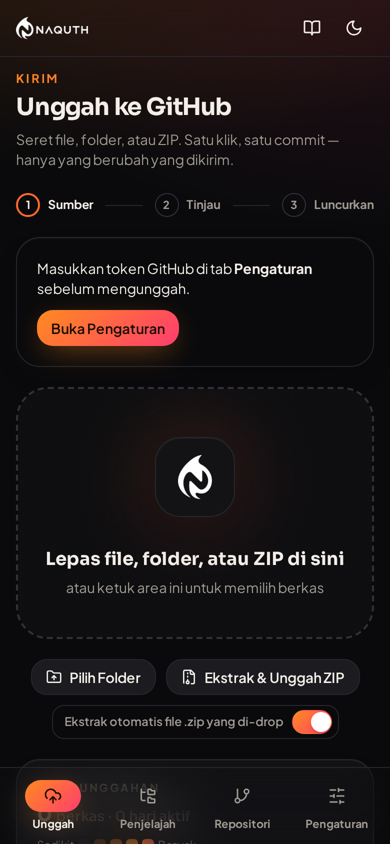
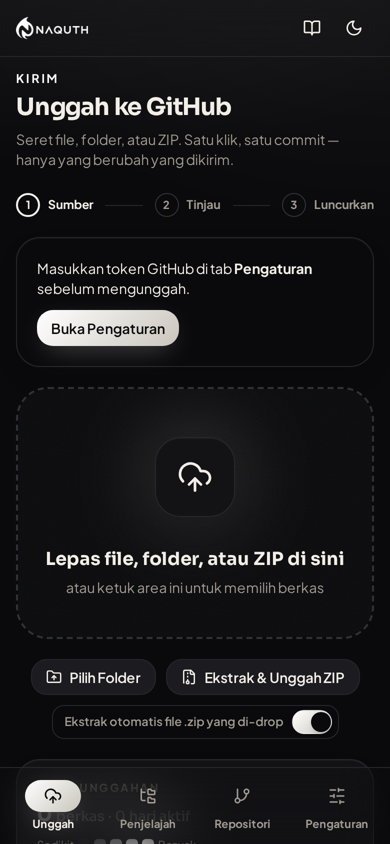
Upload 70 files

diff --git a/components/dashboard/uploader.tsx b/components/dashboard/uploader.tsx
@@ -3,11 +3,10 @@
 import { useState, useRef, useCallback, useMemo } from "react"
 import { useDropzone } from "react-dropzone"
 import { toast } from "sonner"
-import { FolderUp, FileArchive, Eye, Rocket, ExternalLink, CheckCircle2, AlertTriangle, Check, GitBranch, ChevronDown, Layers, Eraser, Plus, Minus, Equal, Pencil } from "lucide-react"
+import { CloudUpload, FolderUp, FileArchive, Eye, Rocket, ExternalLink, CheckCircle2, AlertTriangle, Check, GitBranch, ChevronDown, Layers, Eraser, Plus, Minus, Equal, Pencil } from "lucide-react"
 import { useGithub } from "@/lib/github-context"
 import { useShell } from "@/components/shell/shell-context"
 import { ViewHeader, Eyebrow } from "@/components/shell/view-header"
-import { Emblem } from "@/components/brand/logo"
 import { Card, CardContent } from "@/components/ui/card"
 import { Button } from "@/components/ui/button"
 import { Switch } from "@/components/ui/switch"
@@ -201,7 +200,7 @@ export function Uploader() {
     return (
       <li className="flex items-center gap-2">
         <span className={cn("grid h-6 w-6 place-items-center rounded-full text-[11px] font-bold transition-colors",
-          done ? "bg-ember text-primary-foreground" : on ? "border-2 border-primary text-foreground" : "border border-input text-muted-foreground")}>
+          done ? "bg-brand text-primary-foreground" : on ? "border-2 border-primary text-foreground" : "border border-input text-muted-foreground")}>
           {done ? <Check className="h-3.5 w-3.5" /> : i + 1}
         </span>
         <span className={cn("text-xs font-bold", on || done ? "text-foreground" : "text-muted-foreground")}>{label}</span>
@@ -285,13 +284,13 @@ export function Uploader() {
         {...getRootProps()}
         className={cn(
           "grain relative cursor-pointer overflow-hidden rounded-[2rem] border-2 border-dashed px-6 py-10 text-center transition-all duration-200 sm:py-14",
-          isDragActive ? "scale-[1.01] border-primary bg-primary/10 shadow-glow" : "border-input bg-card/60 hover:border-ember hover:bg-card"
+          isDragActive ? "scale-[1.01] border-primary bg-primary/10 shadow-glow" : "border-input bg-card/60 hover:border-brand hover:bg-card"
         )}
       >
         <input {...getInputProps()} />
         <div className="relative mx-auto mb-5 grid h-24 w-24 place-items-center">
-          <span className={cn("absolute inset-0 rounded-full bg-ember opacity-20 blur-2xl", isDragActive && "animate-ember-pulse opacity-60")} />
-          <span className="relative grid h-20 w-20 place-items-center rounded-[1.6rem] border bg-card shadow-soft"><Emblem size={44} /></span>
+          <span className={cn("absolute inset-0 rounded-full bg-brand opacity-20 blur-2xl", isDragActive && "animate-brand-pulse opacity-60")} />
+          <span className="relative grid h-20 w-20 place-items-center rounded-[1.6rem] border bg-card shadow-soft"><CloudUpload className={cn("h-9 w-9 transition-transform", isDragActive && "-translate-y-1 animate-bounce")} strokeWidth={1.75} aria-hidden /></span>
         </div>
         <p className="font-display text-lg font-bold sm:text-xl">{isDragActive ? "Lepaskan untuk menambahkan" : "Lepas file, folder, atau ZIP di sini"}</p>
         <p className="mt-1 text-sm text-muted-foreground">atau ketuk area ini untuk memilih berkas</p>
@@ -356,7 +355,7 @@ export function Uploader() {
       {/* ───── berjalan / log ───── */}
       {(running || logs.length > 0) && (
         <Card className="animate-rise overflow-hidden">
-          {running && <div className="h-1 w-full animate-shimmer bg-[length:200%_100%]" style={{ backgroundImage: "linear-gradient(90deg, transparent, var(--ember-from), var(--ember-to), transparent)" }} />}
+          {running && <div className="h-1 w-full animate-shimmer bg-[length:200%_100%]" style={{ backgroundImage: "linear-gradient(90deg, transparent, var(--brand-from), var(--brand-to), transparent)" }} />}
           <CardContent className="space-y-4 pt-5 sm:pt-6">
             {running && (
               <div className="flex items-center gap-4">
@@ -390,7 +389,7 @@ export function Uploader() {
       {/* ───── hasil / pratinjau ───── */}
       {outcome && sm && ch && (
         <Card className={cn("animate-rise overflow-hidden", !outcome.dryRun && "border-success/40")}>
-          <div className={cn("h-1 w-full", outcome.dryRun ? "bg-ember" : "bg-success")} />
+          <div className={cn("h-1 w-full", outcome.dryRun ? "bg-brand" : "bg-success")} />
           <CardContent className="space-y-4 pt-5 sm:pt-6">
             <div className="flex items-start gap-3">
               <span className={cn("grid h-11 w-11 shrink-0 place-items-center rounded-2xl", outcome.dryRun ? "bg-primary/15 text-primary" : "bg-success/15 text-success")}>

diff --git a/app/globals.css b/app/globals.css
@@ -3,7 +3,7 @@
 @tailwind utilities;
 
 @layer base {
-  /* ───────── PAPER (terang): krem hangat, tinta pekat ───────── */
+  /* ───────── PAPER (terang): krem hangat, aksen tinta ───────── */
   :root {
     --background: #f6f3ed;
     --foreground: #17140f;
@@ -11,8 +11,8 @@
     --card-foreground: #17140f;
     --popover: #ffffff;
     --popover-foreground: #17140f;
-    --primary: #ff6a2b;
-    --primary-foreground: #1a0b04;
+    --primary: #17140f;
+    --primary-foreground: #f6f3ed;
     --secondary: #efeae0;
     --secondary-foreground: #17140f;
     --muted: #ece7dc;
@@ -23,16 +23,18 @@
     --destructive-foreground: #ffffff;
     --border: #e3ddd0;
     --input: #d8d1c2;
-    --ring: #ff6a2b;
+    --ring: #17140f;
     --success: #0f9d63;
     --warn: #b7791f;
     --info: #1d78c4;
-    --ember-from: #ff8a1f;
-    --ember-to: #ff2e7a;
+    --brand-from: #2b2721;
+    --brand-to: #0d0b08;
+    --aura-a: rgba(23, 20, 15, 0.06);
+    --aura-b: rgba(23, 20, 15, 0.035);
     --radius: 1rem;
     color-scheme: light;
   }
-  /* ───────── INK (gelap): hitam tinta, api oranye ───────── */
+  /* ───────── INK (gelap): hitam tinta, aksen putih ───────── */
   .dark {
     --background: #0a0a0c;
     --foreground: #f3efe8;
@@ -40,8 +42,8 @@
     --card-foreground: #f3efe8;
     --popover: #16161a;
     --popover-foreground: #f3efe8;
-    --primary: #ff6a2b;
-    --primary-foreground: #1a0b04;
+    --primary: #f4f2ee;
+    --primary-foreground: #0a0a0c;
     --secondary: #1b1b20;
     --secondary-foreground: #f3efe8;
     --muted: #17171b;
@@ -52,12 +54,14 @@
     --destructive-foreground: #ffffff;
     --border: #26262d;
     --input: #31313a;
-    --ring: #ff6a2b;
+    --ring: #f4f2ee;
     --success: #3ddc97;
     --warn: #ffc24b;
     --info: #6cb8ff;
-    --ember-from: #ff8a1f;
-    --ember-to: #ff3d6e;
+    --brand-from: #ffffff;
+    --brand-to: #c9c5bc;
+    --aura-a: rgba(255, 255, 255, 0.075);
+    --aura-b: rgba(255, 255, 255, 0.04);
     color-scheme: dark;
   }
 
@@ -71,22 +75,22 @@
     font-feature-settings: "cv11", "ss01";
   }
   h1, h2, h3 { @apply font-display tracking-tight; }
-  ::selection { background: color-mix(in srgb, var(--ember-from) 40%, transparent); }
+  ::selection { background: color-mix(in srgb, var(--foreground) 24%, transparent); }
   :focus-visible { outline: 2px solid var(--ring); outline-offset: 2px; }
 }
 
 @layer utilities {
-  .bg-ember { background-image: linear-gradient(135deg, var(--ember-from), var(--ember-to)); }
-  .text-ember {
-    background-image: linear-gradient(135deg, var(--ember-from), var(--ember-to));
+  .bg-brand { background-image: linear-gradient(135deg, var(--brand-from), var(--brand-to)); }
+  .text-brand {
+    background-image: linear-gradient(135deg, var(--brand-from), var(--brand-to));
     -webkit-background-clip: text; background-clip: text; color: transparent;
   }
-  .border-ember { border-color: color-mix(in srgb, var(--ember-from) 55%, transparent); }
-  /* cahaya api di sudut halaman */
-  .ember-aura {
+  .border-brand { border-color: color-mix(in srgb, var(--brand-from) 55%, transparent); }
+  /* cahaya lembut netral di sudut halaman */
+  .brand-aura {
     background:
-      radial-gradient(60rem 28rem at 8% -8%, color-mix(in srgb, var(--ember-from) 16%, transparent), transparent 60%),
-      radial-gradient(44rem 24rem at 100% 0%, color-mix(in srgb, var(--ember-to) 10%, transparent), transparent 62%);
+      radial-gradient(60rem 28rem at 8% -8%, var(--aura-a), transparent 60%),
+      radial-gradient(44rem 24rem at 100% 0%, var(--aura-b), transparent 62%);
   }
   /* butiran halus agar permukaan tidak "datar plastik" */
   .grain::after {

diff --git a/components/shell/app-shell.tsx b/components/shell/app-shell.tsx
@@ -22,7 +22,7 @@ function ConnectionCard({ onConnect }: { onConnect: () => void }) {
   const { config, user, userError, owner, isConfigured } = useGithub()
   if (!config.token) {
     return (
-      <button onClick={onConnect} className="w-full rounded-2xl border border-dashed border-ember bg-primary/5 p-3 text-left transition hover:bg-primary/10">
+      <button onClick={onConnect} className="w-full rounded-2xl border border-dashed border-brand bg-primary/5 p-3 text-left transition hover:bg-primary/10">
         <p className="flex items-center gap-2 text-sm font-bold"><span className="h-2 w-2 rounded-full bg-warn" /> Belum terhubung</p>
         <p className="mt-0.5 text-xs text-muted-foreground">Ketuk untuk menambahkan token GitHub.</p>
       </button>
@@ -76,7 +76,7 @@ export function AppShell({ views }: { views: Record<ViewId, ReactNode> }) {
 
   return (
     <ShellContext.Provider value={{ view, setView }}>
-      <div className="ember-aura relative min-h-dvh">
+      <div className="brand-aura relative min-h-dvh">
         {/* ───── rail desktop ───── */}
         <aside className="fixed inset-y-0 left-0 z-30 hidden w-[272px] flex-col border-r bg-card/70 p-5 backdrop-blur-xl lg:flex">
           <div className="px-1 pt-1"><Logo height={30} /></div>
@@ -92,8 +92,8 @@ export function AppShell({ views }: { views: Record<ViewId, ReactNode> }) {
                     on ? "bg-accent text-foreground" : "text-muted-foreground hover:bg-accent/60 hover:text-foreground"
                   )}
                 >
-                  {on && <span className="absolute -left-5 top-3 bottom-3 w-1 rounded-r-full bg-ember" />}
-                  <span className={cn("grid h-9 w-9 shrink-0 place-items-center rounded-xl transition-colors", on ? "bg-ember text-primary-foreground shadow-glow" : "bg-secondary")}>
+                  {on && <span className="absolute -left-5 top-3 bottom-3 w-1 rounded-r-full bg-brand" />}
+                  <span className={cn("grid h-9 w-9 shrink-0 place-items-center rounded-xl transition-colors", on ? "bg-brand text-primary-foreground shadow-glow" : "bg-secondary")}>
                     <Icon className="h-[18px] w-[18px]" />
                   </span>
                   <span className="min-w-0">
@@ -142,7 +142,7 @@ export function AppShell({ views }: { views: Record<ViewId, ReactNode> }) {
                   onClick={() => setView(id)}
                   className={cn("flex flex-col items-center gap-1 rounded-2xl py-1.5 text-[11px] font-bold transition-colors", on ? "text-foreground" : "text-muted-foreground")}
                 >
-                  <span className={cn("grid h-8 w-14 place-items-center rounded-full transition-all", on ? "bg-ember text-primary-foreground shadow-glow" : "")}>
+                  <span className={cn("grid h-8 w-14 place-items-center rounded-full transition-all", on ? "bg-brand text-primary-foreground shadow-glow" : "")}>
                     <Icon className="h-[18px] w-[18px]" />
                   </span>
                   {label}

diff --git a/tailwind.config.ts b/tailwind.config.ts
@@ -26,21 +26,21 @@ const config: Config = {
         success: "var(--success)",
         warn: "var(--warn)",
         info: "var(--info)",
-        ember: { from: "var(--ember-from)", to: "var(--ember-to)" },
+        brand: { from: "var(--brand-from)", to: "var(--brand-to)" },
       },
       borderRadius: { lg: "var(--radius)", md: "calc(var(--radius) - 4px)", sm: "calc(var(--radius) - 8px)" },
       boxShadow: {
-        glow: "0 8px 30px -8px color-mix(in srgb, var(--ember-from) 55%, transparent)",
+        glow: "0 8px 28px -10px color-mix(in srgb, var(--brand-from) 38%, transparent)",
         soft: "0 1px 0 0 color-mix(in srgb, var(--foreground) 4%, transparent) inset, 0 12px 32px -16px rgb(0 0 0 / 0.35)",
       },
       keyframes: {
         shimmer: { "0%": { backgroundPosition: "-200% 0" }, "100%": { backgroundPosition: "200% 0" } },
-        "ember-pulse": { "0%,100%": { opacity: "0.55", transform: "scale(1)" }, "50%": { opacity: "1", transform: "scale(1.06)" } },
+        "brand-pulse": { "0%,100%": { opacity: "0.55", transform: "scale(1)" }, "50%": { opacity: "1", transform: "scale(1.06)" } },
         rise: { "0%": { opacity: "0", transform: "translateY(10px)" }, "100%": { opacity: "1", transform: "translateY(0)" } },
       },
       animation: {
         shimmer: "shimmer 2.2s linear infinite",
-        "ember-pulse": "ember-pulse 1.8s ease-in-out infinite",
+        "brand-pulse": "brand-pulse 1.8s ease-in-out infinite",
         rise: "rise .35s cubic-bezier(.2,.8,.2,1) both",
       },
     },

diff --git a/components/dashboard/repositories.tsx b/components/dashboard/repositories.tsx
@@ -107,7 +107,7 @@ export function Repositories() {
         {filtered.map((r) => {
           const active = r.name === config.repo && r.owner.login === owner
           return (
-            <Card key={r.id} className={cn("flex flex-col transition-all", active && "border-ember shadow-glow")}>
+            <Card key={r.id} className={cn("flex flex-col transition-all", active && "border-brand shadow-glow")}>
               <CardContent className="flex flex-1 flex-col gap-3 pt-5">
                 <div className="flex items-start justify-between gap-2">
                   <div className="min-w-0">
@@ -120,7 +120,7 @@ export function Repositories() {
                 </div>
                 <p className="line-clamp-2 min-h-[2.5rem] text-sm text-muted-foreground">{r.description || "Tidak ada deskripsi."}</p>
                 <div className="flex items-center gap-4 text-xs text-muted-foreground">
-                  {r.language && <span className="flex items-center gap-1.5"><span className="h-2 w-2 rounded-full bg-ember" />{r.language}</span>}
+                  {r.language && <span className="flex items-center gap-1.5"><span className="h-2 w-2 rounded-full bg-brand" />{r.language}</span>}
                   <span className="flex items-center gap-1"><Star className="h-3 w-3" /> {r.stargazers_count}</span>
                   <span className="flex items-center gap-1"><GitFork className="h-3 w-3" /> {r.forks_count}</span>
                 </div>

diff --git a/components/dashboard/progress-ring.tsx b/components/dashboard/progress-ring.tsx
@@ -9,15 +9,15 @@ export function ProgressRing({ value, size = 88, stroke = 8, className }: { valu
     <div className={cn("relative shrink-0", className)} style={{ width: size, height: size }} role="progressbar" aria-valuenow={v} aria-valuemin={0} aria-valuemax={100}>
       <svg width={size} height={size} className="-rotate-90">
         <defs>
-          <linearGradient id="ring-ember" x1="0" y1="0" x2="1" y2="1">
-            <stop offset="0%" style={{ stopColor: "var(--ember-from)" }} />
-            <stop offset="100%" style={{ stopColor: "var(--ember-to)" }} />
+          <linearGradient id="ring-brand" x1="0" y1="0" x2="1" y2="1">
+            <stop offset="0%" style={{ stopColor: "var(--brand-from)" }} />
+            <stop offset="100%" style={{ stopColor: "var(--brand-to)" }} />
           </linearGradient>
         </defs>
         <circle cx={size / 2} cy={size / 2} r={r} fill="none" strokeWidth={stroke} style={{ stroke: "var(--secondary)" }} />
         <circle
           cx={size / 2} cy={size / 2} r={r} fill="none" strokeWidth={stroke} strokeLinecap="round"
-          stroke="url(#ring-ember)" strokeDasharray={c} strokeDashoffset={c * (1 - v / 100)}
+          stroke="url(#ring-brand)" strokeDasharray={c} strokeDashoffset={c * (1 - v / 100)}
           className="transition-[stroke-dashoffset] duration-300"
         />
       </svg>

diff --git a/components/ui/switch.tsx b/components/ui/switch.tsx
@@ -9,7 +9,7 @@ const Switch = React.forwardRef<
 >(({ className, ...props }, ref) => (
   <SwitchPrimitives.Root
     className={cn(
-      "peer inline-flex h-7 w-12 shrink-0 cursor-pointer items-center rounded-full border border-transparent p-0.5 transition-colors disabled:cursor-not-allowed disabled:opacity-50 data-[state=checked]:bg-ember data-[state=unchecked]:bg-input",
+      "peer inline-flex h-7 w-12 shrink-0 cursor-pointer items-center rounded-full border border-transparent p-0.5 transition-colors disabled:cursor-not-allowed disabled:opacity-50 data-[state=checked]:bg-brand data-[state=unchecked]:bg-input",
       className
     )}
     {...props}
@@ -17,7 +17,7 @@ const Switch = React.forwardRef<
   >
     <SwitchPrimitives.Thumb
       className={cn(
-        "pointer-events-none block h-6 w-6 rounded-full bg-white shadow-md ring-0 transition-transform data-[state=checked]:translate-x-5 data-[state=unchecked]:translate-x-0"
+        "pointer-events-none block h-6 w-6 rounded-full bg-white shadow-md ring-0 transition-all data-[state=checked]:translate-x-5 data-[state=checked]:bg-primary-foreground data-[state=unchecked]:translate-x-0"
       )}
     />
   </SwitchPrimitives.Root>

diff --git a/components/shell/guide.tsx b/components/shell/guide.tsx
@@ -25,12 +25,12 @@ export function Guide() {
         <ol className="space-y-4">
           {steps.map(([t, d], i) => (
             <li key={t} className="flex gap-3">
-              <span className="mt-0.5 grid h-6 w-6 shrink-0 place-items-center rounded-full bg-ember text-xs font-bold text-primary-foreground">{i + 1}</span>
+              <span className="mt-0.5 grid h-6 w-6 shrink-0 place-items-center rounded-full bg-brand text-xs font-bold text-primary-foreground">{i + 1}</span>
               <div><p className="text-sm font-bold">{t}</p><p className="text-sm text-muted-foreground">{d}</p></div>
             </li>
           ))}
         </ol>
-        <p className="rounded-2xl border border-ember bg-primary/5 p-3 text-xs">
+        <p className="rounded-2xl border border-brand bg-primary/5 p-3 text-xs">
           <b>Privasi:</b> tidak ada server Naquth. Semua proses terjadi di browser Anda dan langsung ke <code className="font-mono">api.github.com</code>. Token hanya tersimpan di perangkat jika Anda mengaktifkan &quot;Ingat token&quot;.
         </p>
       </DialogContent>

diff --git a/components/dashboard/activity-heatmap.tsx b/components/dashboard/activity-heatmap.tsx
@@ -9,8 +9,8 @@ const iso = (d: Date) => d.toISOString().split("T")[0] // sama dengan format yan
 const level = (n: number, max: number) => (n <= 0 ? 0 : Math.min(4, Math.ceil((n / max) * 4)))
 const bg = (l: number): React.CSSProperties =>
   l === 0 ? { background: "var(--secondary)" }
-  : l === 4 ? { backgroundImage: "linear-gradient(135deg, var(--ember-from), var(--ember-to))" }
-  : { background: `color-mix(in srgb, var(--ember-from) ${[28, 52, 76][l - 1]}%, transparent)` }
+  : l === 4 ? { backgroundImage: "linear-gradient(135deg, var(--brand-from), var(--brand-to))" }
+  : { background: `color-mix(in srgb, var(--brand-from) ${[28, 52, 76][l - 1]}%, transparent)` }
 
 /** Peta aktivitas ala kalender: 20 minggu terakhir. Menggantikan grafik batang. */
 export function ActivityHeatmap() {

diff --git a/components/dashboard/settings-panel.tsx b/components/dashboard/settings-panel.tsx
@@ -23,7 +23,7 @@ function Section({ n, icon, title, desc, children }: { n: number; icon: ReactNod
         <div className="flex items-start gap-3">
           <span className="grid h-10 w-10 shrink-0 place-items-center rounded-xl bg-secondary text-foreground">{icon}</span>
           <div>
-            <p className="text-[11px] font-bold uppercase tracking-[0.16em] text-ember">Langkah {n}</p>
+            <p className="text-[11px] font-bold uppercase tracking-[0.16em] text-brand">Langkah {n}</p>
             <h2 className="font-display text-lg font-bold leading-tight">{title}</h2>
             <p className="text-sm text-muted-foreground">{desc}</p>
           </div>

diff --git a/components/shell/view-header.tsx b/components/shell/view-header.tsx
@@ -4,7 +4,7 @@ export function ViewHeader({ eyebrow, title, subtitle, right }: { eyebrow?: stri
   return (
     <div className="mb-6 flex flex-col gap-3 sm:flex-row sm:items-end sm:justify-between">
       <div className="min-w-0">
-        {eyebrow && <p className="mb-1 text-xs font-bold uppercase tracking-[0.18em] text-ember">{eyebrow}</p>}
+        {eyebrow && <p className="mb-1 text-xs font-bold uppercase tracking-[0.18em] text-brand">{eyebrow}</p>}
         <h1 className="font-display text-2xl font-bold sm:text-3xl">{title}</h1>
         {subtitle && <p className="mt-1.5 max-w-xl text-sm text-muted-foreground">{subtitle}</p>}
       </div>

diff --git a/components/ui/progress.tsx b/components/ui/progress.tsx
@@ -18,7 +18,7 @@ const Progress = React.forwardRef<
     {...props}
   >
     <ProgressPrimitive.Indicator
-      className="h-full w-full flex-1 rounded-full bg-ember transition-transform duration-300"
+      className="h-full w-full flex-1 rounded-full bg-brand transition-transform duration-300"
       style={{ transform: `translateX(-${100 - (value || 0)}%)` }}
     />
   </ProgressPrimitive.Root>
